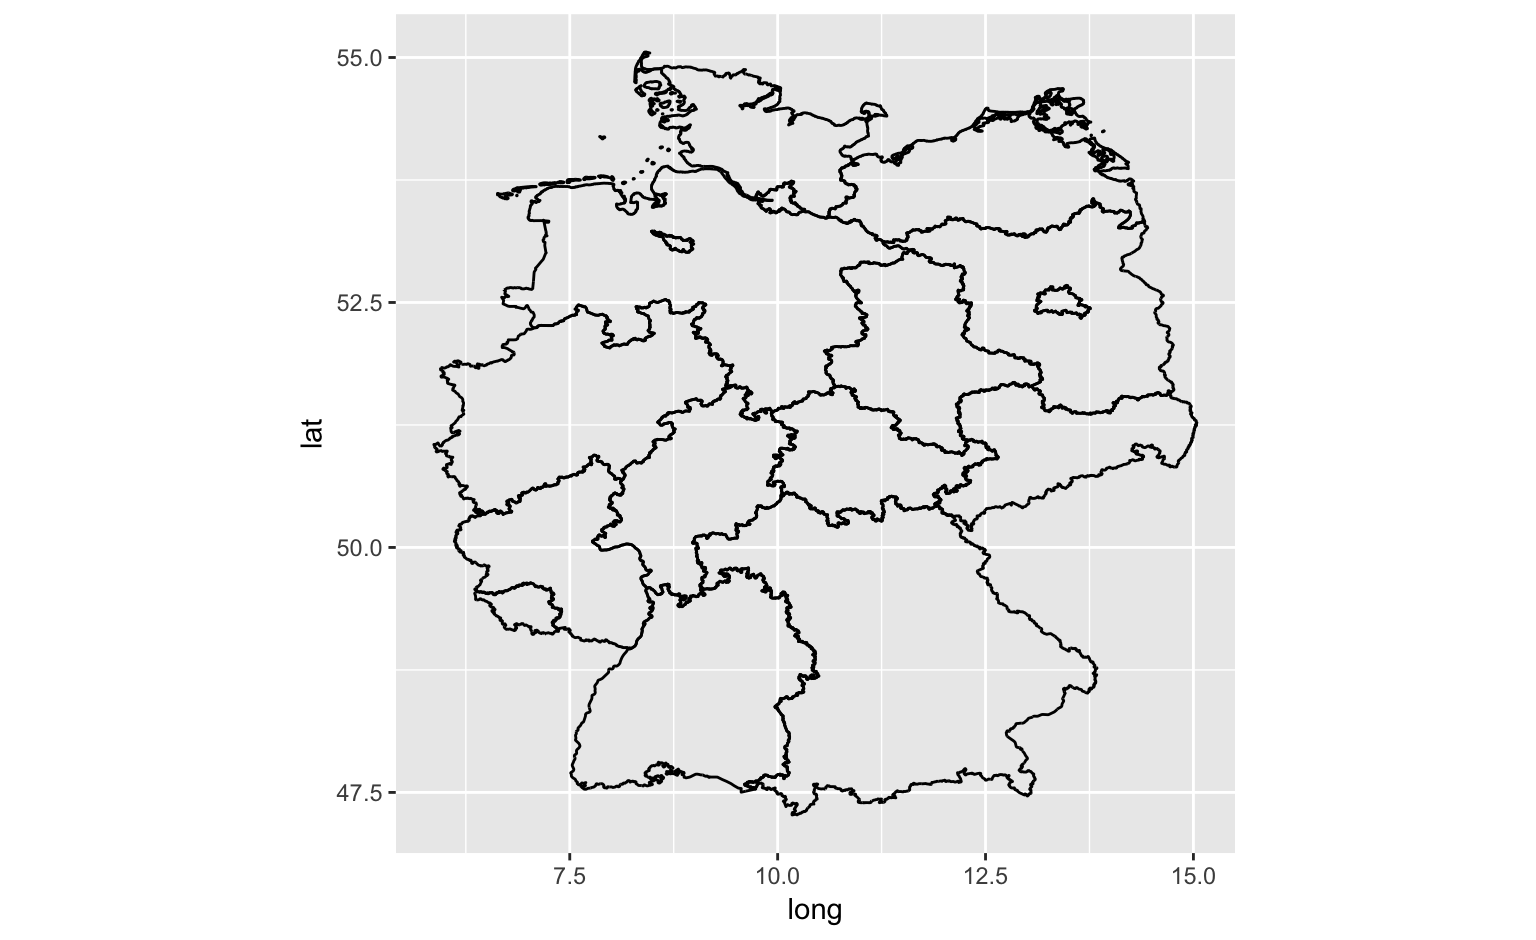
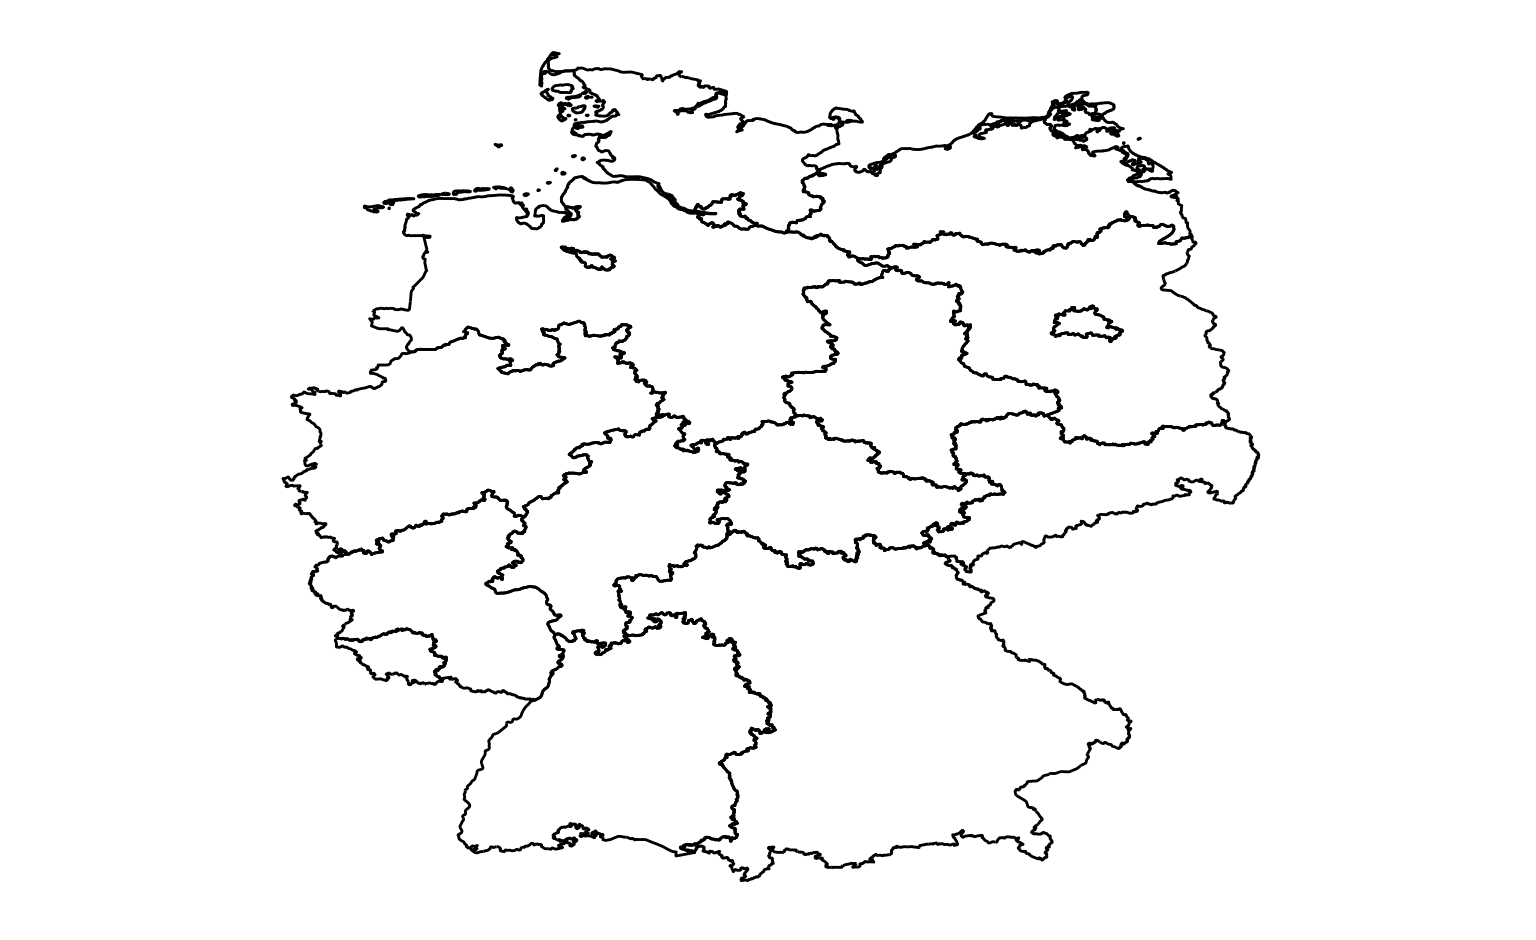
update of material

diff --git a/04_data-structures/01_data-structures.html b/04_data-structures/01_data-structures.html
@@ -190,7 +190,7 @@ d %&gt;%<span class="st"> </span><span class="kw">glimpse</span>()</code></pre><
 ## Variables: 3
 ## $ x   &lt;dbl&gt; 1, 1, 1, 1, 1, 1, 1, 1, 1, 1
 ## $ y   &lt;dbl&gt; 1, 2, 3, 4, 5, 6, 7, 8, 9, 10
-## $ fac &lt;fctr&gt; C, C, C, B, A, A, C, A, B, C</code></pre>
+## $ fac &lt;fctr&gt; C, A, B, C, C, A, A, A, B, C</code></pre>
 </section><section id="lists" class="slide level2">
 <h2>Lists</h2>
 <ul>
@@ -333,7 +333,7 @@ d %&gt;%<span class="st"> </span><span class="kw">glimpse</span>()</code></pre><
 </section><section id="working-with-lists-contd" class="slide level2">
 <h2>Working with lists (cont’d)</h2>
 <ul>
-<li>double bracket operator [<a href="#/section"></a>] returns single list element (i.e. only single positive integer is allowed)</li>
+<li>double bracket operator <code>[[ ]]</code> returns single list element (i.e. only single positive integer is allowed as index)</li>
 <li>similarly, named objects can be accessed using the <code>$</code> operator</li>
 </ul>
 <div class="sourceCode"><pre class="sourceCode r"><code class="sourceCode r">mod[[<span class="dv">1</span>]]</code></pre></div>
@@ -729,9 +729,10 @@ xx &lt;-<span class="st"> </span><span class="kw">readShapeSpatial</span>(<span 
 </section><section id="your-turn---plot-the-map" class="slide level2">
 <h2>Your Turn - plot the map</h2>
 <div class="sourceCode"><pre class="sourceCode r"><code class="sourceCode r">de1 %&gt;%<span class="st"> </span>
-<span class="st">  </span><span class="kw">ggplot</span>(<span class="kw">aes</span>(<span class="dt">x =</span> long, <span class="dt">y =</span> lat, <span class="dt">group =</span> group)) +<span class="st"> </span><span class="kw">geom_path</span>() +
-<span class="st">  </span><span class="kw">theme</span>(<span class="dt">aspect.ratio=</span><span class="dv">1</span>)</code></pre></div>
-<p><img src="01_data-structures_files/figure-revealjs/unnamed-chunk-16-1.png" width="768" /></p>
+<span class="st">  </span><span class="kw">ggplot</span>(<span class="kw">aes</span>(<span class="dt">x =</span> long, <span class="dt">y =</span> lat)) +<span class="st"> </span><span class="kw">geom_path</span>(<span class="kw">aes</span>(<span class="dt">group =</span> group)) +<span class="st"> </span>
+<span class="st">  </span><span class="kw">coord_equal</span>() +<span class="st"> </span>ggthemes::<span class="kw">theme_map</span>() +<span class="st"> </span><span class="kw">geom_point</span>(<span class="dt">data=</span>df) +<span class="st"> </span>
+<span class="st">  </span>ggrepel::<span class="kw">geom_label_repel</span>(<span class="kw">aes</span>(<span class="dt">label =</span> label), <span class="dt">data =</span> df)</code></pre></div>
+<p><img src="01_data-structures_files/figure-revealjs/unnamed-chunk-17-1.png" width="768" /></p>
 </section>
 
   <!--
